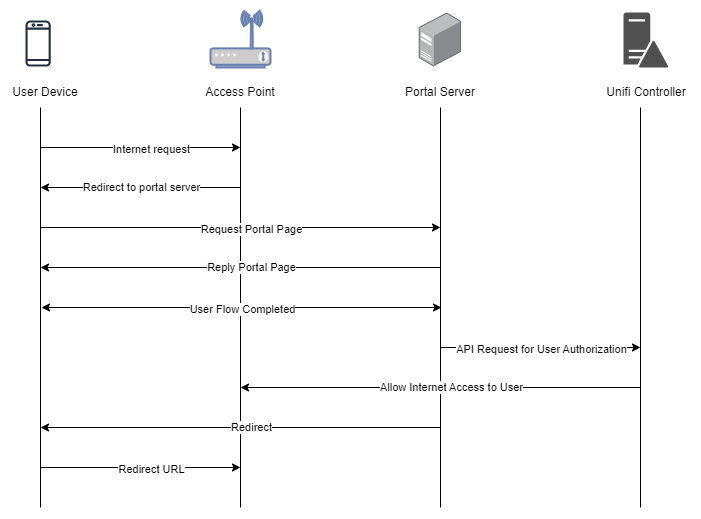
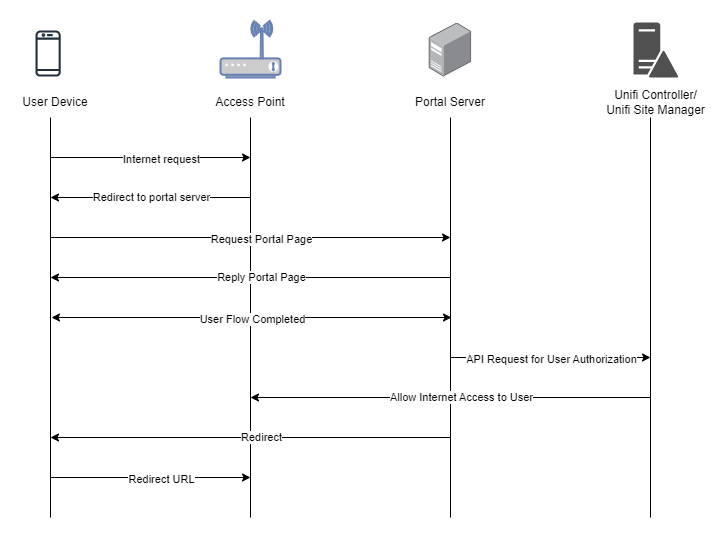
unifi manual

Changed region(s): [[0.0599, 0.0, 0.9287, 0.9557], [0.8388, 0.0, 0.9886, 0.2158], [0.0, 0.0308, 0.1198, 0.2158]]

diff --git a/docs/portals/unifi.md b/docs/portals/unifi.md
@@ -2,9 +2,32 @@ To set up a portal for Unifi first you need to [create a template](../defining-t
 
 ## Add a Unifi Controller
 
-To add a Unifi Controller you will click on the New unifi controller button in the Unifi Controllers tab. An interactive wizard will launch. You need to enter the name, URL and username password for the Unifi Controller. It needs to be a local user without 2FA. The controller should be reachable directly over the internet using the provided hostname, not via ui.com portal.
+Unifi controllers can either be self-hosted or managed via Unifi Site Manager (unifi.ui.com).
 
-![Unifi Wizard 1](../assets/images/portals/unifi/unifi-wizard-1.png)
+![Unifi Controller](../assets/images/portals/unifi/unifi-controller-types.png)
+
+### Self-Hosted
+
+In case of a self-hosted Unifi controller there are 2 authentication methods: 
+
+1. API Key (recommended for Unifi OS)
+2. Username Password (traditional method)
+
+For creating an API Key access your Unifi Network application and go to Integrations > Create New API Key. Note this key as it won't be shown again.
+
+If using a controller on which API Key option is not available the Username Password option will have to be used instead. It needs to be the username and password of a local admin user without 2FA.
+
+The either case the controller should be reachable directly over the internet using the provided hostname, not via unifi.ui.com portal.
+
+To add a Unifi Controller click on the New Ubiquiti Unifi button in Controllers > Ubiquiti Unifi. An interactive wizard will launch.
+
+You need to enter the name, URL and API key or Username Password for the Unifi Controller.
+
+![Unifi Wizard 1](../assets/images/portals/unifi/unifi-wizard-api.png)
+
+When using Username Password it will be added like this:
+
+![Unifi Wizard 1](../assets/images/portals/unifi/unifi-wizard-username-password.png)
 
 In the 2nd step the connection with the Unifi controller will be tested. If the connection is successful, you will get an option to assign sites on the Unifi controller to corresponding venues and templates on Splash Air. You can use the `+` button at the bottom to add multiple sites.
 
@@ -20,7 +43,25 @@ The controller will start showing on the Unifi Controllers page:
 
 ![Controller Added](../assets/images/portals/unifi/controller-added.png)
 
-You should check the site in the Unifi Controller to double-check the captive portal settings. In Hotspot > Authentication `External Portal Server` should be selected. 
+### Unifi Site Manager
+
+A Unifi OS console or server adopted on a unifi.ui.com account can be added using the wizard. It requires a Site Manager API key generated by the console owner.
+
+To generate a Site Manager API Key open unifi.ui.com and go to Settings > API Keys. Generate an API key with Unifi Network Application permission.
+
+You will also require the Console ID. It can be found in the URL when you access the site.
+
+![Unifi Console ID](../assets/images/portals/unifi/console-id.png)
+
+To add a Unifi Controller click on the New Ubiquiti Unifi button in Controllers > Ubiquiti Unifi. An interactive wizard will launch. Enter a name for the controller, select `Site Manager Proxy` as the **Authentication Method**, and enter the Console ID and Site Manager API Key.
+
+![Unifi Wizard 1](../assets/images/portals/unifi/unifi-wizard-site-manager.png)
+
+The next steps are the same as given above for [self-hosted](#self-hosted) controller.
+
+## Unifi Settings
+
+After adding the controller you should check the site in the Unifi Controller to double-check the captive portal settings. In Hotspot > Authentication `External Portal Server` should be selected.
 
 ![Unifi External Portal Server](../assets/images/portals/unifi/unifi-external-portal-server.png)
 